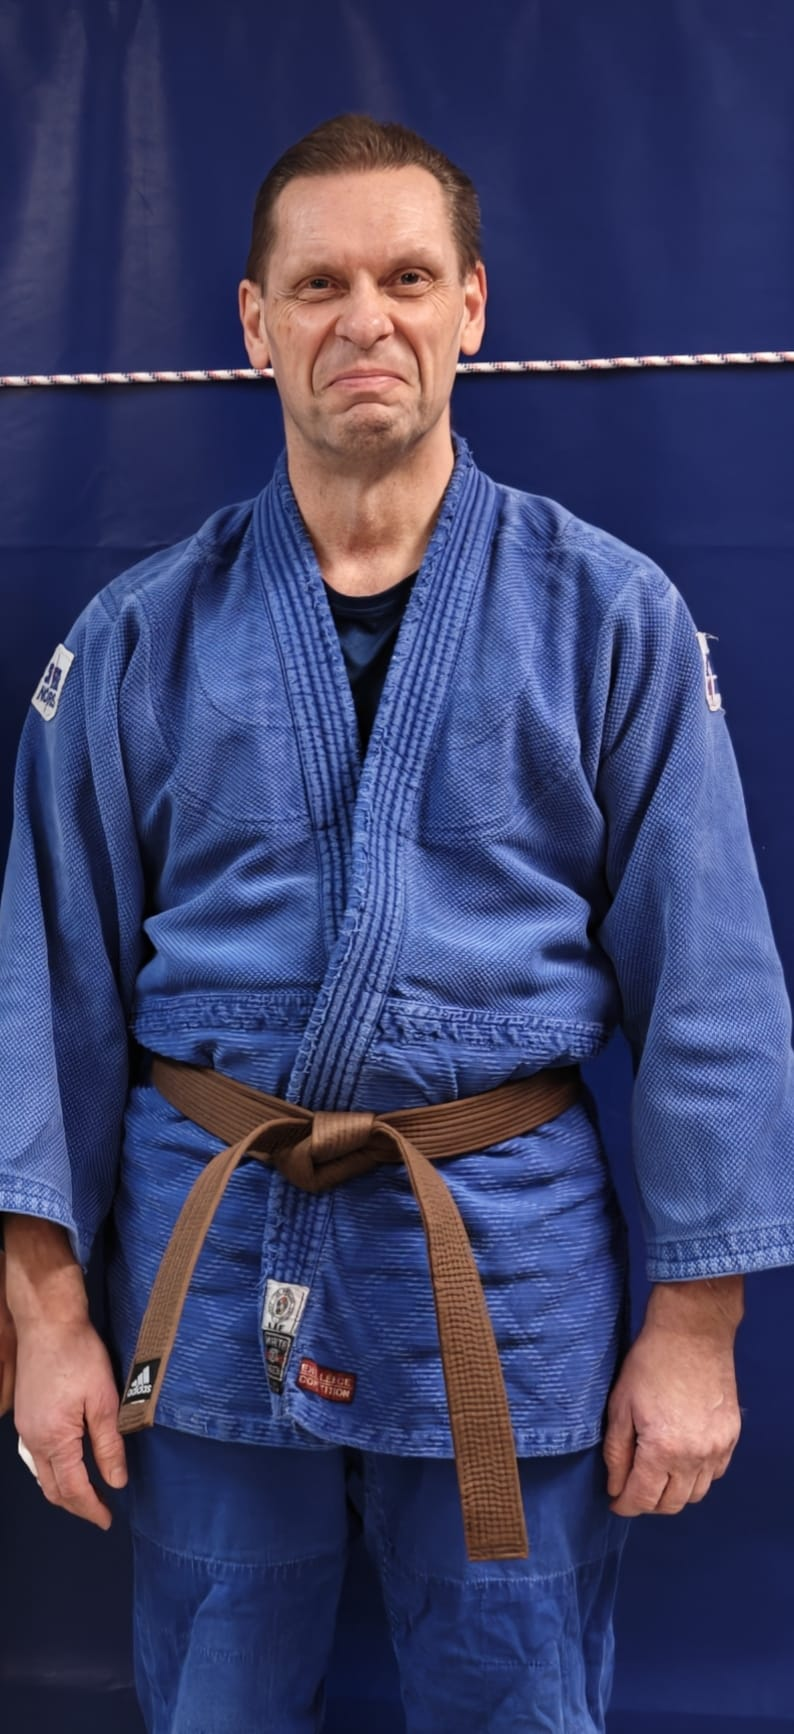
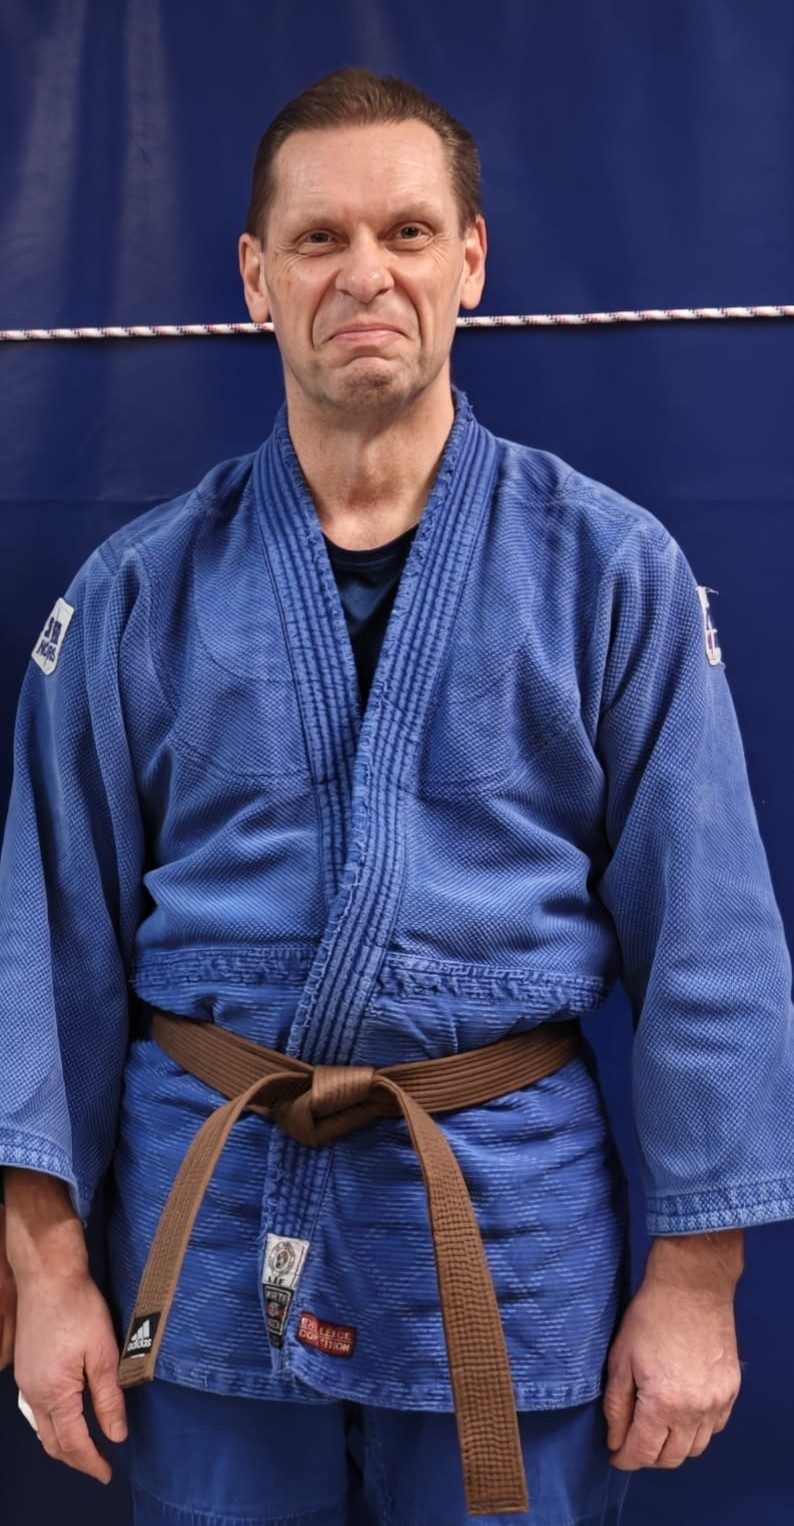
v1.0.9 - Synchronize English Ohjaajat page and update instructor images

diff --git a/index.html b/index.html
@@ -14,7 +14,7 @@
     <header class="top-nav">
         <nav>
             <div class="nav-container">
-                <div class="version-tag">v1.0.8</div>
+                <div class="version-tag">v1.0.9</div>
                 <a href="#home" class="nav-logo">
                     <img src="images/cropped-takado-logo.png" alt="Takado Logo">
                     <span class="nav-tagline" id="tagline"></span>

diff --git a/pages/fi/ohjaajat.md b/pages/fi/ohjaajat.md
@@ -139,27 +139,27 @@ Takadolla on koulutettu ja monipuolinen ohjaajajoukko. Ohjaajamme on listattu vy
 <div class="instructor-grid">
 
 <div class="instructor-card">
-<img src="images/instructors/ville.jpg" alt="Ville-Pekka Kotkas">
+<img src="images/instructors/ville.jpg" alt="Ville Rasimus">
 <div class="instructor-info">
-<h3>Ville-Pekka Kotkas</h3>
-<span class="belt-badge belt-black">Musta vyö</span>
+<h3>Ville Rasimus</h3>
+<span class="belt-badge belt-black">Musta vyö 3.dan</span>
 <p class="instructor-role">EJJ Pääohjaaja</p>
 </div>
 </div>
 
 <div class="instructor-card">
-<img src="images/instructors/bengt.jpeg" alt="Bengt Helin">
+<img src="images/instructors/miikak.jpg" alt="Miika Komu">
 <div class="instructor-info">
-<h3>Bengt Helin</h3>
-<span class="belt-badge belt-purple">Purppura vyö</span>
+<h3>Miika Komu</h3>
+<span class="belt-badge belt-black">Musta vyö 2.dan</span>
 </div>
 </div>
 
 <div class="instructor-card">
-<img src="images/instructors/miikak.jpg" alt="Miika Kettunen">
+<img src="images/instructors/bengt.jpeg" alt="Bengt Sahlin">
 <div class="instructor-info">
-<h3>Miika Kettunen</h3>
-<span class="belt-badge belt-blue">Sininen vyö</span>
+<h3>Bengt Sahlin</h3>
+<span class="belt-badge belt-brown">Ruskea vyö 2.kyu</span>
 </div>
 </div>
 

diff --git a/pages/en/ohjaajat.md b/pages/en/ohjaajat.md
@@ -139,27 +139,27 @@ Takado has a trained and versatile team of instructors. Our instructors are list
 <div class="instructor-grid">
 
 <div class="instructor-card">
-<img src="images/instructors/ville.jpg" alt="Ville-Pekka Kotkas">
+<img src="images/instructors/ville.jpg" alt="Ville Rasimus">
 <div class="instructor-info">
-<h3>Ville-Pekka Kotkas</h3>
-<span class="belt-badge belt-black">Black Belt</span>
+<h3>Ville Rasimus</h3>
+<span class="belt-badge belt-black">Black Belt 3.dan</span>
 <p class="instructor-role">EJJ Head Instructor</p>
 </div>
 </div>
 
 <div class="instructor-card">
-<img src="images/instructors/bengt.jpeg" alt="Bengt Helin">
+<img src="images/instructors/miikak.jpg" alt="Miika Komu">
 <div class="instructor-info">
-<h3>Bengt Helin</h3>
-<span class="belt-badge belt-purple">Purple Belt</span>
+<h3>Miika Komu</h3>
+<span class="belt-badge belt-black">Black Belt 2.dan</span>
 </div>
 </div>
 
 <div class="instructor-card">
-<img src="images/instructors/miikak.jpg" alt="Miika Kettunen">
+<img src="images/instructors/bengt.jpeg" alt="Bengt Sahlin">
 <div class="instructor-info">
-<h3>Miika Kettunen</h3>
-<span class="belt-badge belt-blue">Blue Belt</span>
+<h3>Bengt Sahlin</h3>
+<span class="belt-badge belt-brown">Brown Belt 2.kyu</span>
 </div>
 </div>
 
